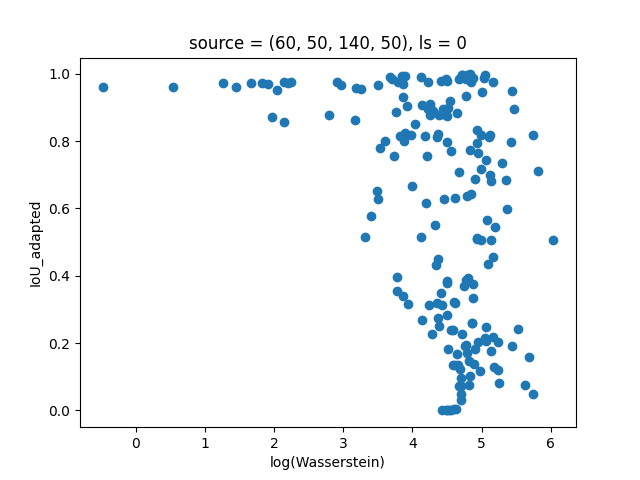
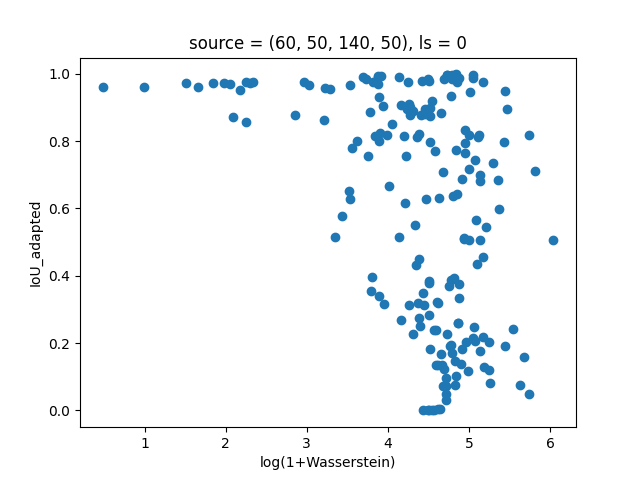
change

diff --git a/readme.md b/readme.md
@@ -69,7 +69,7 @@ Given a target dataset with 1000 images, these are the data:
 | $n$ (n_channels) | $64$            | $128$          | $256$          | $512$          | $1024$         |
 | $f(m,n)$         | $<10^{-3}$      | $<10^{-3}$     | $0.13$         | $2.08$         | $33$           |
 
-Last row is the Wasserstein estimated accuracy. This means that the computation of the Wasserstein is lesser and lesser reliable as we go deeper through the network, because of the higher dimensionality and lower number of samples (increasing sparsity), especially for lower values of the Wasserstein. This may also explain the presence of negative values in the future graphs (ideally $w \geq 0 \implies 1+\log(w) \geq 0$, where w is going to be the Wasserstein distance).
+Last row is the Wasserstein estimated accuracy. This means that the computation of the Wasserstein is less reliable as we go deeper through the network, because of the lower number of samples and higher dimensionality (increasing sparsity), especially for lower values of the Wasserstein. This may also explain the presence of negative values in the future graphs (ideally $w \geq 0 \implies 1+\log(w) \geq 0$, where w is going to be the Wasserstein distance).
 
 # Results
 
@@ -87,9 +87,29 @@ Wasserstein:
 
 <img src="https://github.com/MarcoFurlan99/7_Wasserstein_computation_and_more/blob/master/(60,50,140,50)/wasserstein_0.png?raw=true">
 
+<img src="https://github.com/MarcoFurlan99/7_Wasserstein_computation_and_more/blob/master/(60,50,140,50)/wasserstein_1.png?raw=true">
+
+<img src="https://github.com/MarcoFurlan99/7_Wasserstein_computation_and_more/blob/master/(60,50,140,50)/wasserstein_2.png?raw=true">
+
+
+<img src="https://github.com/MarcoFurlan99/7_Wasserstein_computation_and_more/blob/master/(60,50,140,50)/wasserstein_3.png?raw=true">
+
+
+<img src="https://github.com/MarcoFurlan99/7_Wasserstein_computation_and_more/blob/master/(60,50,140,50)/wasserstein_4.png?raw=true">
+
 log Wasserstein vs Adapted IoU:
 
 <img src="https://github.com/MarcoFurlan99/7_Wasserstein_computation_and_more/blob/master/(60,50,140,50)/Prometheus_0.png?raw=true">
+
+<img src="https://github.com/MarcoFurlan99/7_Wasserstein_computation_and_more/blob/master/(60,50,140,50)/Prometheus_1.png?raw=true">
+
+<img src="https://github.com/MarcoFurlan99/7_Wasserstein_computation_and_more/blob/master/(60,50,140,50)/Prometheus_2.png?raw=true">
+
+<img src="https://github.com/MarcoFurlan99/7_Wasserstein_computation_and_more/blob/master/(60,50,140,50)/Prometheus_3.png?raw=true">
+
+<img src="https://github.com/MarcoFurlan99/7_Wasserstein_computation_and_more/blob/master/(60,50,140,50)/Prometheus_4.png?raw=true">
+
+Unfortunately there seems to be no linear relationship! Not much can be concluded in my opinion, other than the fact that if the Wasserstein in the first layers is low ($<3$), then the adapted_IoU is (very likely to be) high ($>0.9$). This may be obvious if the target datasets are very close to the source one (so the IoU is high regardless of BN adaptation), I'll need to check if that's the case.
 
 ## source = (110, 50, 150, 50)
 
